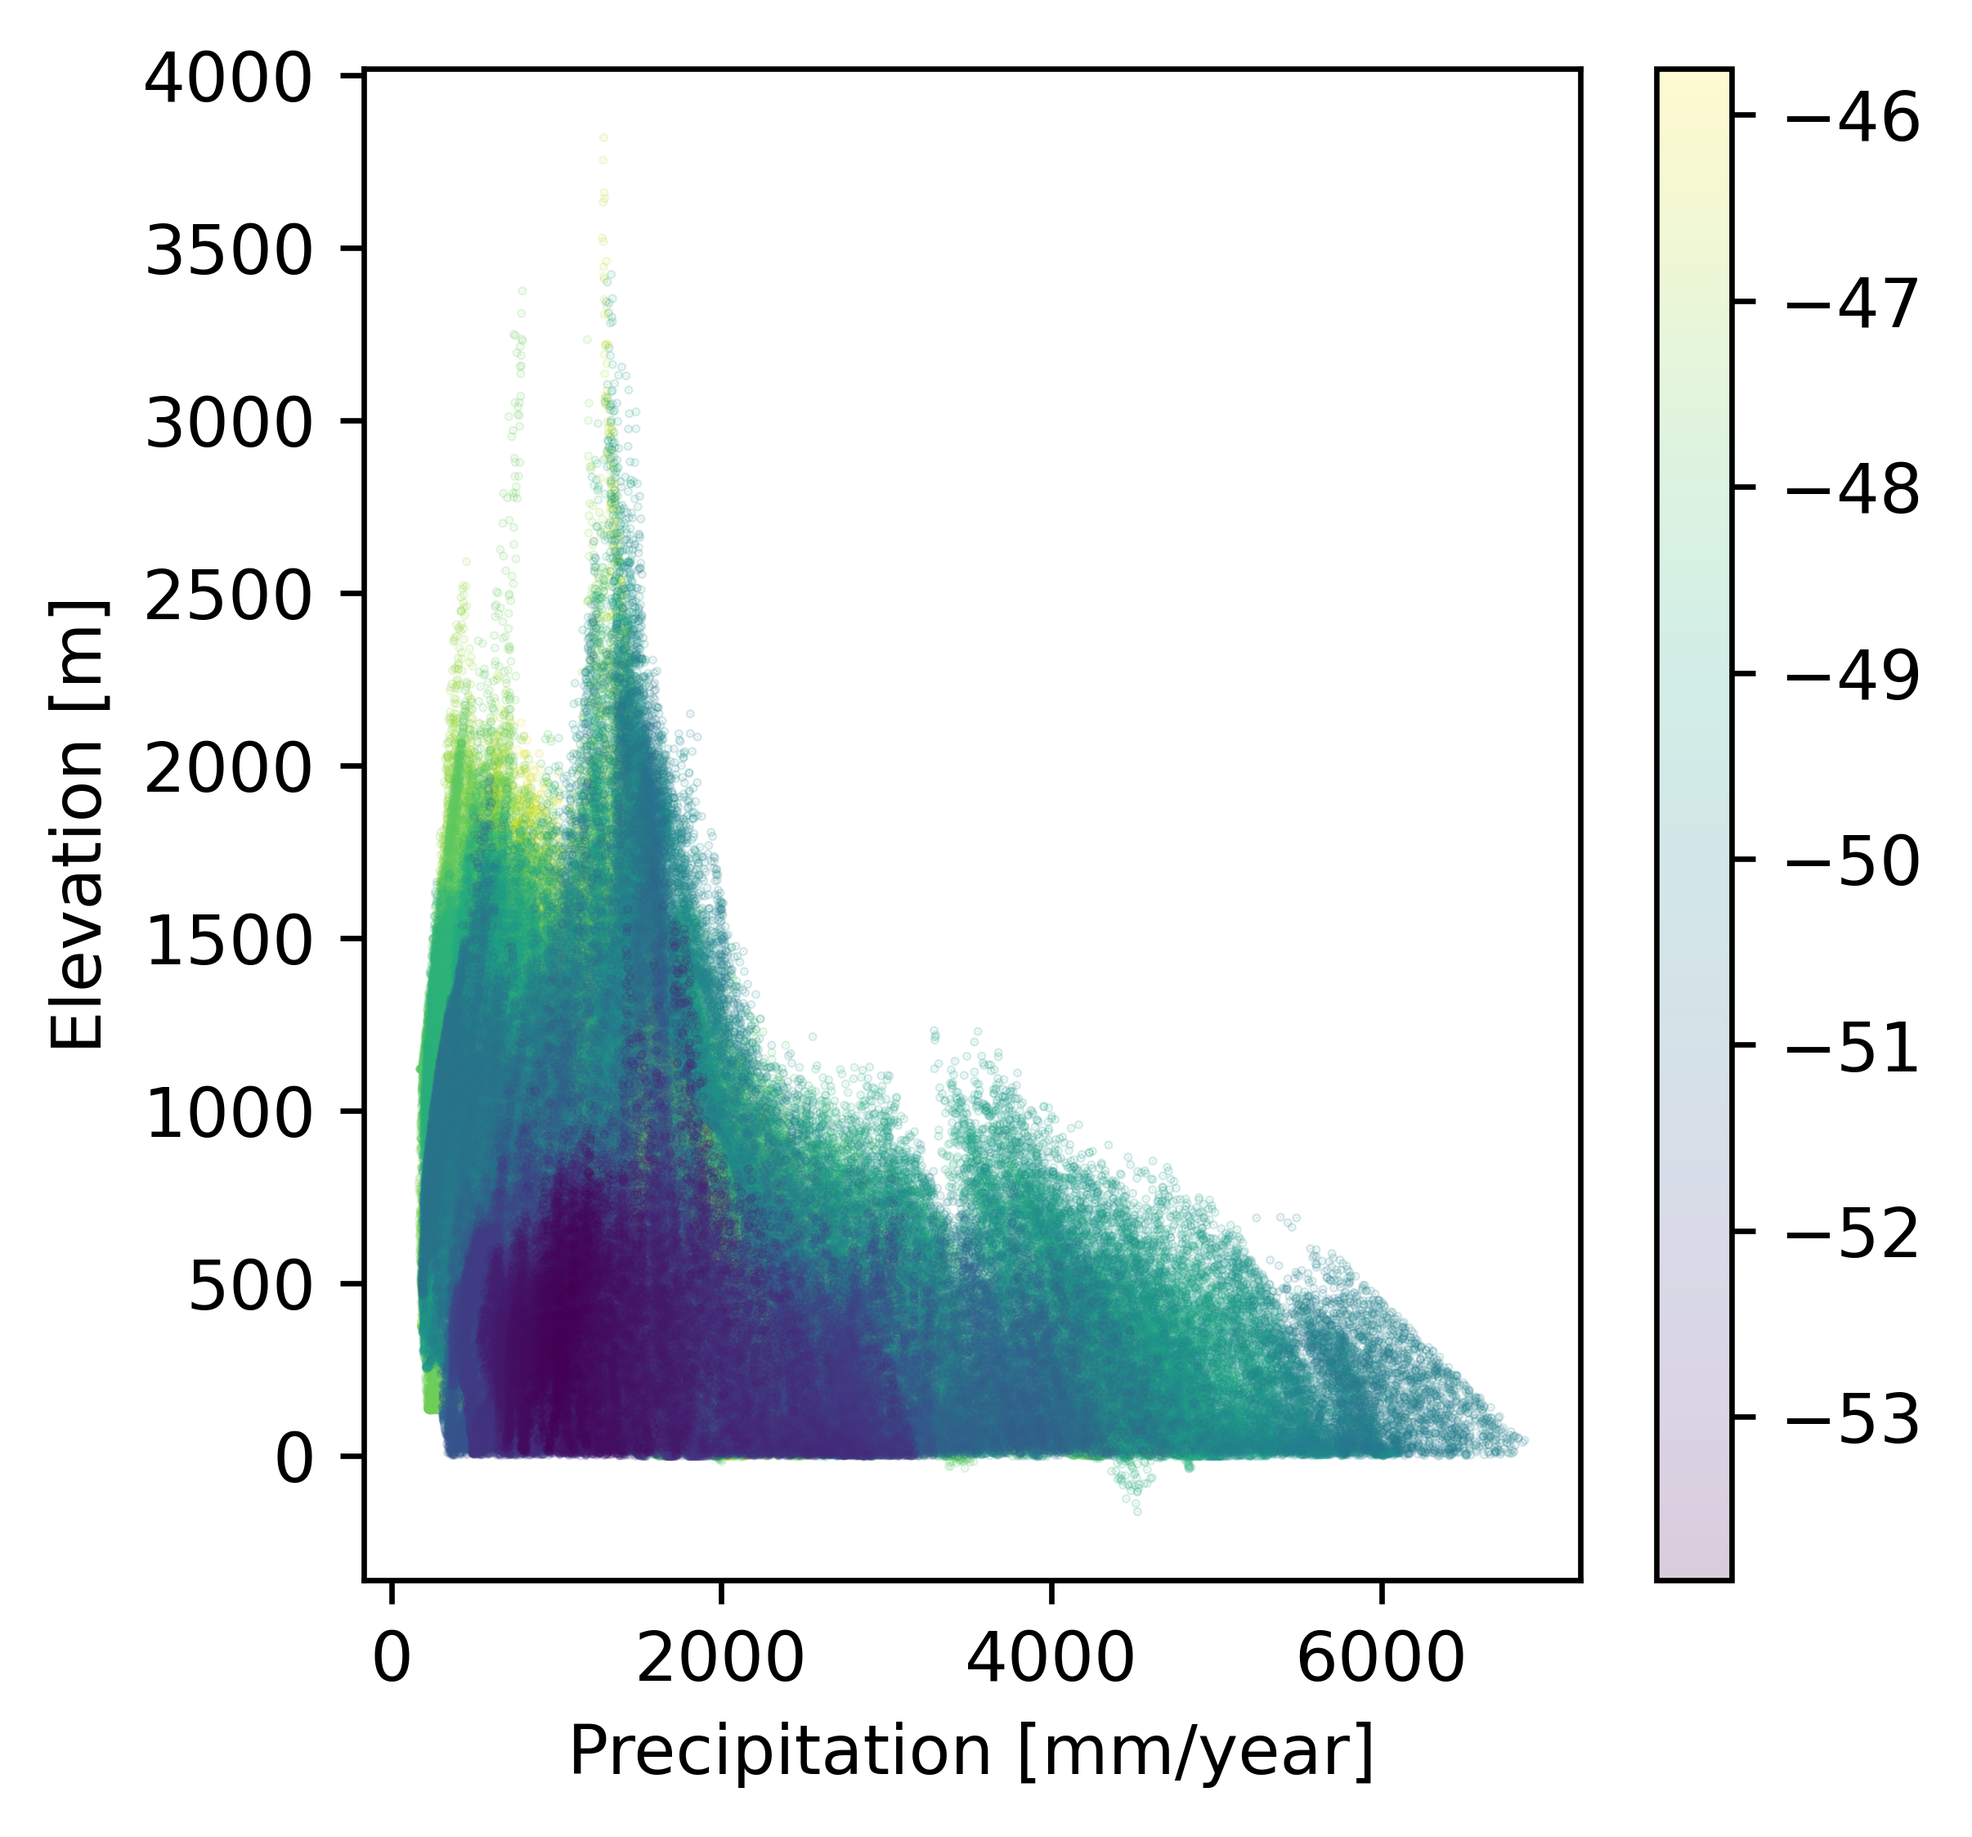
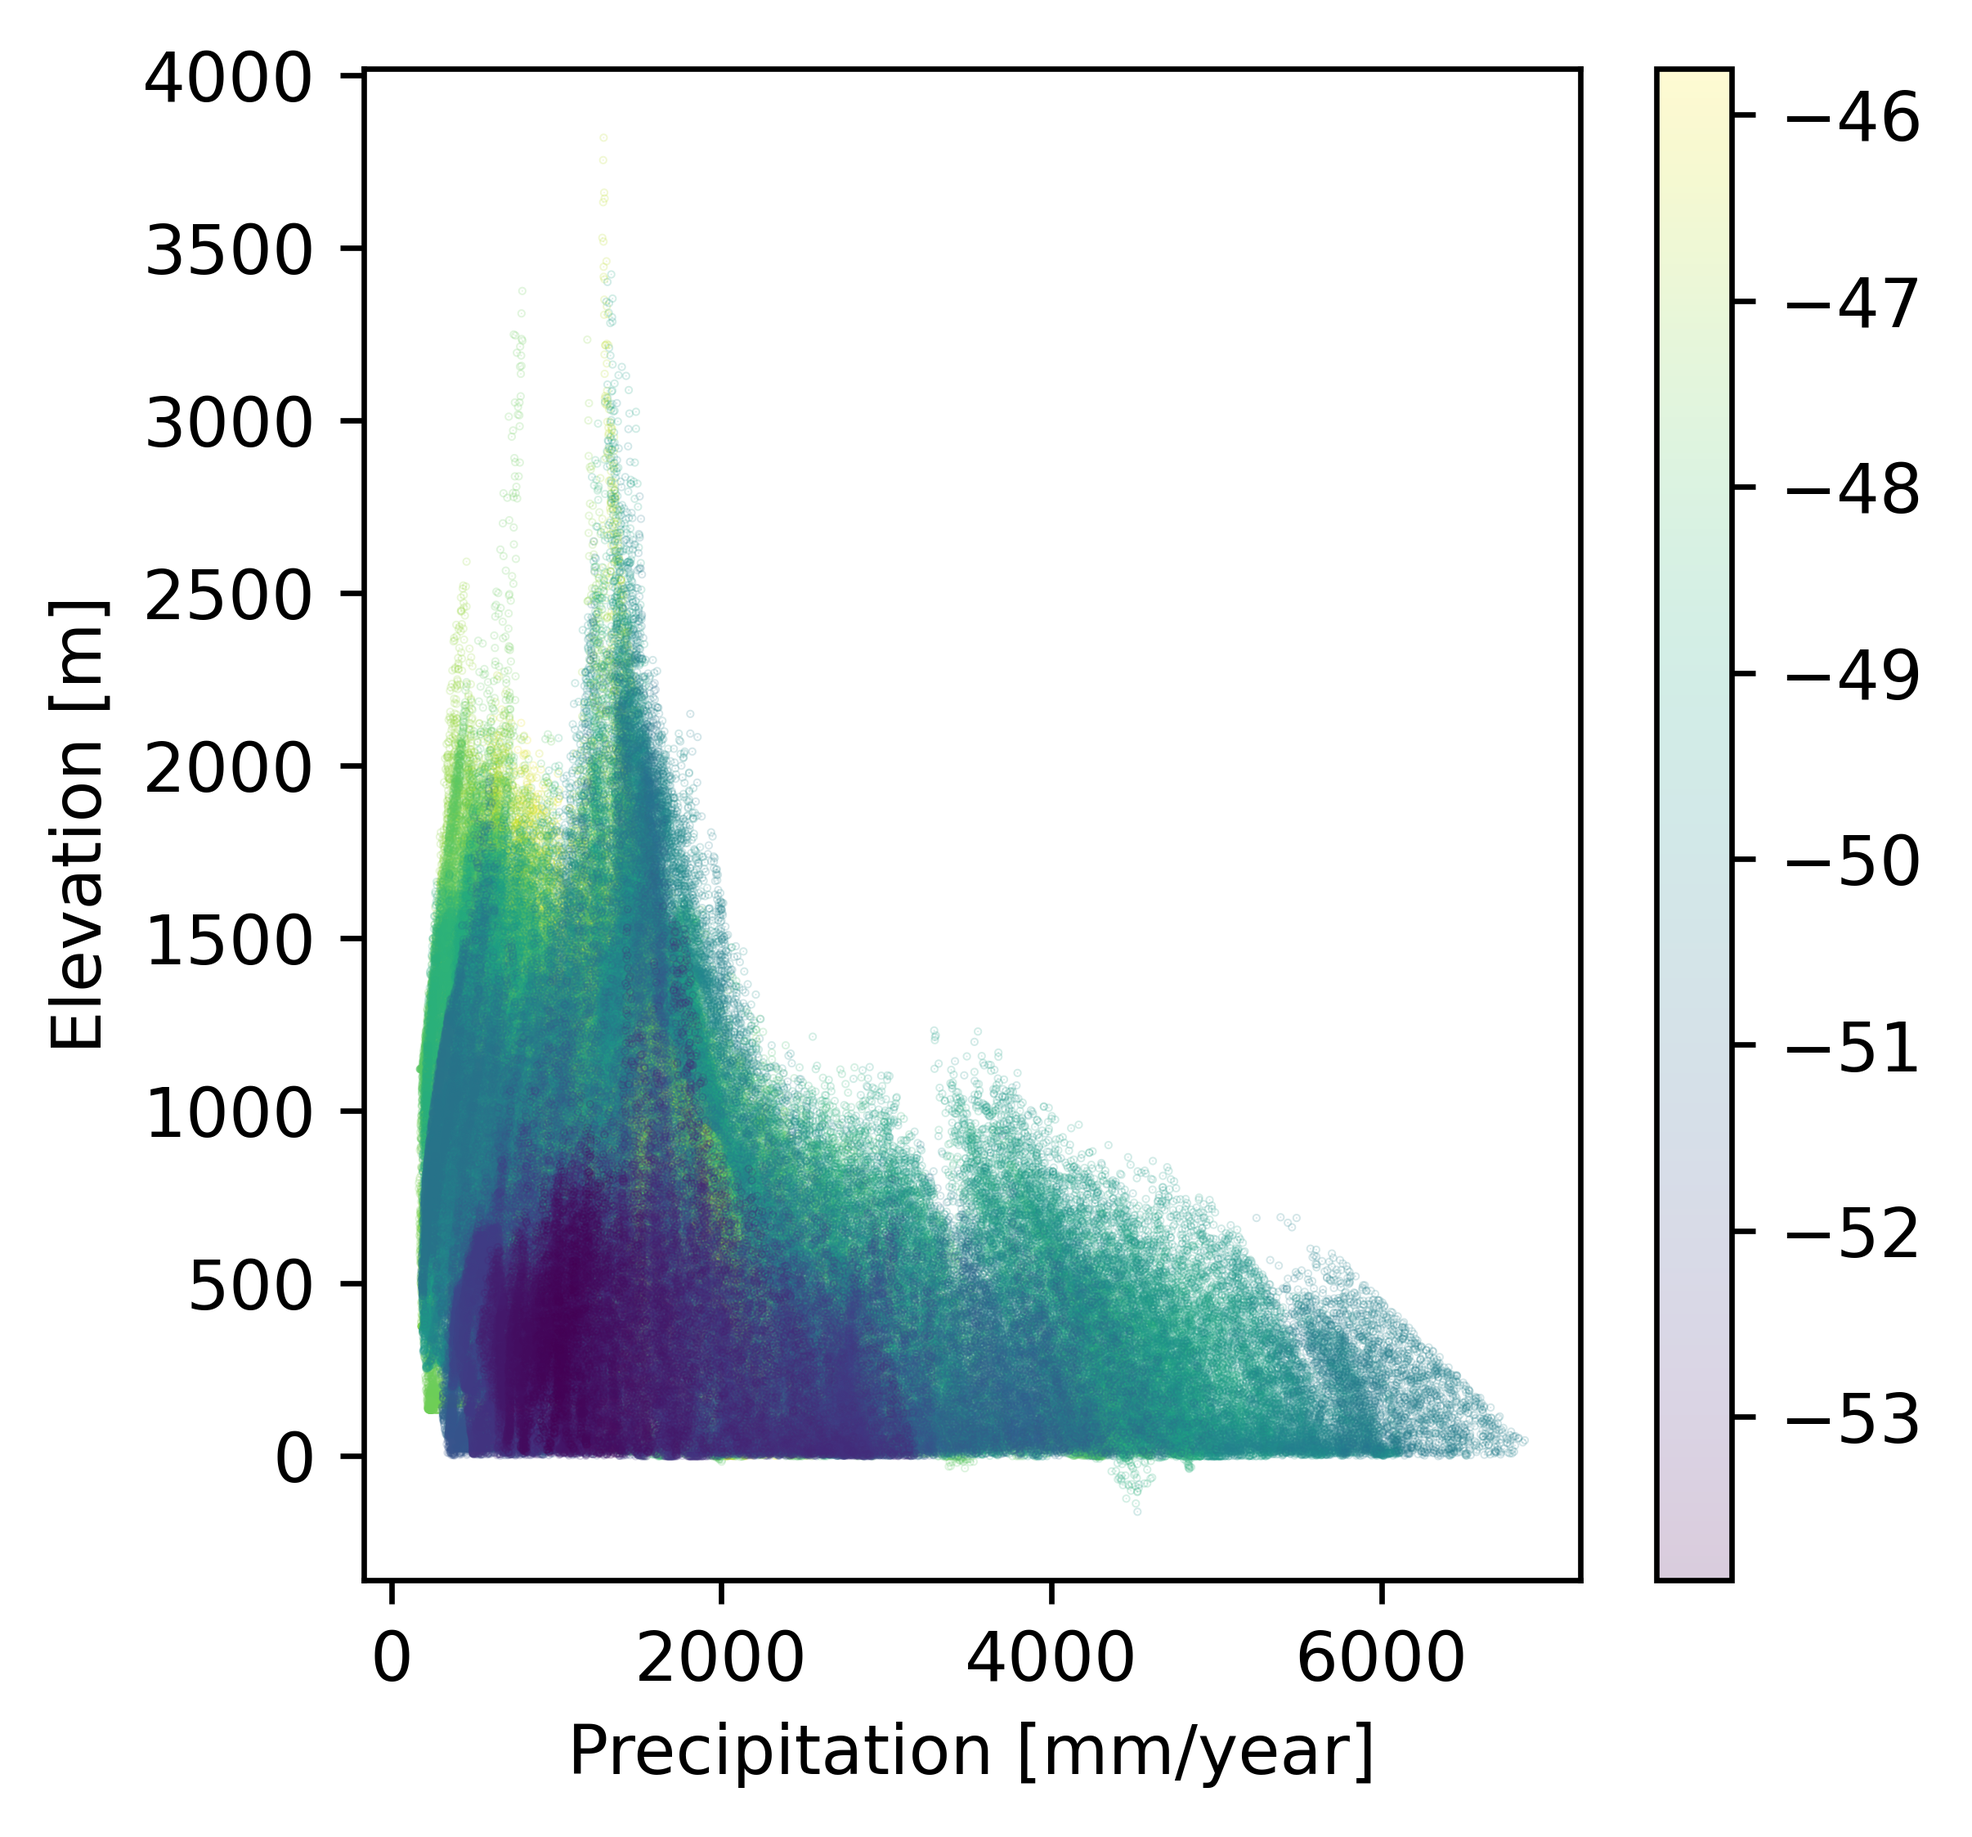
add PET data

Changed region(s): [[0.3109, 0.4363, 0.7774, 0.8103], [0.2177, 0.2805, 0.342, 0.4987], [0.5597, 0.7792, 0.5908, 0.8103]]

diff --git a/mountains.py b/mountains.py
@@ -12,13 +12,14 @@ import earthpy.plot as ep
 from scipy import stats
 
 # specify paths
-data_path = r"C:/Users/gnann/Documents/QGIS/Topography/"
-results_path = r"C:/Users/gnann/Documents/PYTHON/Topography/results/"
+data_path = r"C:/Users/Sebastian/Documents/Data/" #r"C:/Users/gnann/Documents/QGIS/Topography/"
+results_path = "results/" #r"C:/Users/gnann/Documents/PYTHON/Topography/results/"
 
 shp_path = data_path + "GMBA mountain inventory V1.2(entire world)/GMBA Mountain Inventory_v1.2-World.shp"
 dem_path = data_path + "wc2.1_30s_elev/wc2.1_30s_elev.tif"
 clim_path = data_path + "wc2.1_30s_bio/wc2.1_30s_bio_12.tif"
-clim_name = "P"
+#clim_path = data_path + "7504448/global-et0_annual.tif/et0_yr/et0_yr.tif"
+clim_name = "P" #"PET"
 
 # open raster and plot
 dem = rxr.open_rasterio(dem_path, masked=True).squeeze()
@@ -45,10 +46,9 @@ plt.show()
 """
 
 # loop over mountain ranges
-mountain_list = ["European Alps"]
-    #["Cambrian Mountains", "European Alps", "Pyrenees", "Cordillera Patagonica Sur",
-    #             "Ethiopian Highlands", "Himalaya", "Cordillera Central Ecuador", "Sierra Nevada",
-    #             "Pennines","Cascade Range", "Appalachian Mountains", "Cordillera Occidental Peru Bolivia Chile"]
+mountain_list = ["Cambrian Mountains", "European Alps", "Pyrenees", "Cordillera Patagonica Sur",
+                 "Ethiopian Highlands", "Himalaya", "Cordillera Central Ecuador", "Sierra Nevada",
+                 "Pennines","Cascade Range", "Appalachian Mountains", "Cordillera Occidental Peru Bolivia Chile"]
 
 for mountain_name in mountain_list:
     mountain_range = mountain_shp.loc[mountain_shp.Name==mountain_name]
@@ -98,6 +98,8 @@ for mountain_name in mountain_list:
     y = np.delete(y, notfinite)
     lat = np.delete(lat, notfinite)
 
+    plot_idx = np.random.permutation(x.shape[0])
+
     bin_edges = stats.mstats.mquantiles(y, np.linspace(0,1,11))
     #mean_stat = stats.binned_statistic(y, x, statistic=lambda y: np.nanmean(y), bins=nbins, range=bin_range)
     # #std_stat = stats.binned_statistic(y, x, statistic=lambda y: np.nanstd(y), bins=nbins, range=bin_range)
@@ -114,7 +116,7 @@ for mountain_name in mountain_list:
 
     f, ax = plt.subplots(figsize=(4, 4))
     #ax.plot(x, y, 'o', mfc='none', markersize=.1, alpha=0.1)
-    sc = ax.scatter(np.flip(x), np.flip(y), s=0.1, c=lat, alpha=0.2)
+    sc = ax.scatter(x, y, s=0.05, c=lat, alpha=0.2)
 
     #ax.errorbar(median_stat.statistic, bin_medians, xerr=asymmetric_error, yerr=None,
     #            capsize=2, fmt='s', ms=4, elinewidth=1, c='tab:blue', mfc='white', alpha=0.9)
